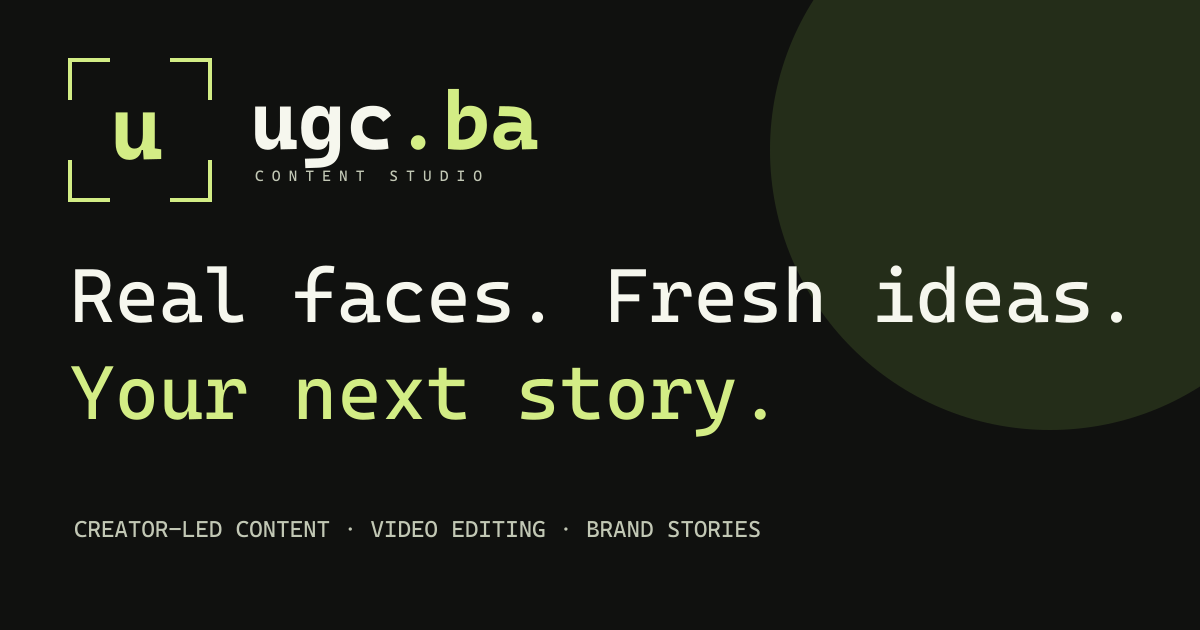
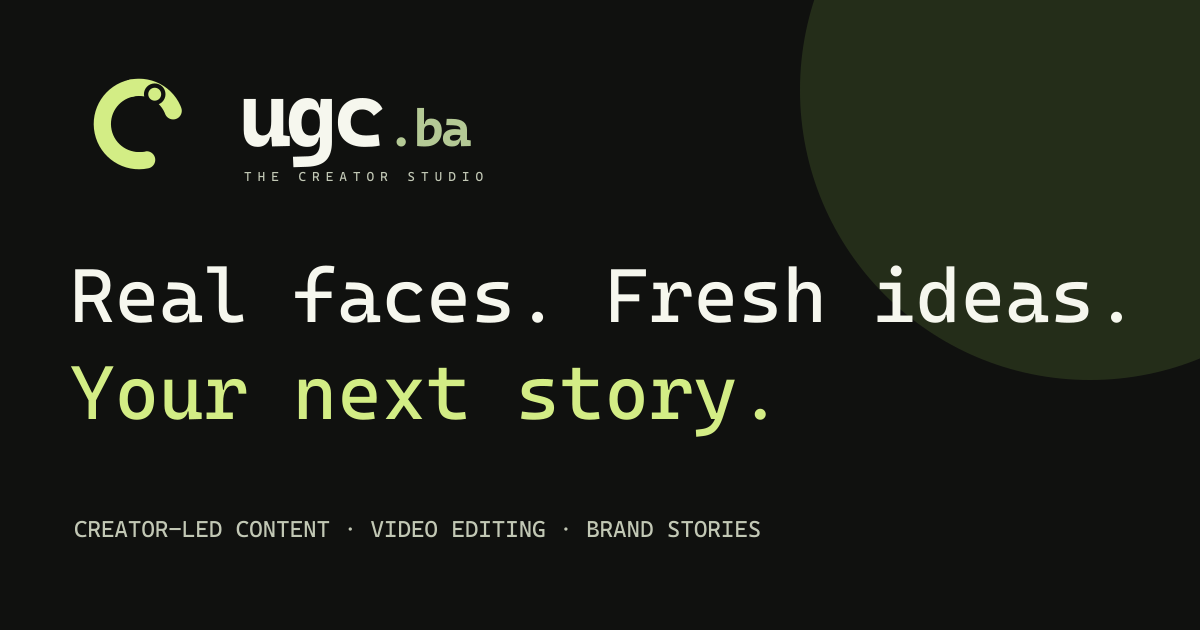
Refine studio identity and enable isolated ugc.gordon.ba mirror

diff --git a/app/components/ContactForm.tsx b/app/components/ContactForm.tsx
@@ -4,7 +4,7 @@ import {ArrowUpRight,Check,LoaderCircle} from 'lucide-react';
 type Talent={id:string;name:string};
 export default function ContactForm({talent=[],packageName='',compact=false,onDone}:{talent?:Talent[];packageName?:string;compact?:boolean;onDone?:()=>void}){
  const [state,setState]=useState<'idle'|'sending'|'sent'|'error'>('idle');const [error,setError]=useState('');
- async function submit(event:React.FormEvent<HTMLFormElement>){event.preventDefault();if(state==='sending')return;const form=event.currentTarget;const data=Object.fromEntries(new FormData(form));setState('sending');setError('');try{const endpoint=location.hostname==='localhost'||location.hostname==='127.0.0.1'?'https://ugc.ba/contact.php':'/contact.php';const response=await fetch(endpoint,{method:'POST',headers:{'Content-Type':'application/json'},body:JSON.stringify({...data,shortlist:talent}),signal:AbortSignal.timeout(25000)});const result=await response.json();if(!response.ok||!result.ok)throw new Error(result.error||'Your message could not be sent.');setState('sent');form.reset()}catch(err){setState('error');setError(err instanceof Error?err.message:'Please try again.')}}
+ async function submit(event:React.FormEvent<HTMLFormElement>){event.preventDefault();if(state==='sending')return;const form=event.currentTarget;const data=Object.fromEntries(new FormData(form));setState('sending');setError('');try{const endpoint=location.hostname==='localhost'||location.hostname==='127.0.0.1'?'https://ugc.gordon.ba/contact.php':'/contact.php';const response=await fetch(endpoint,{method:'POST',headers:{'Content-Type':'application/json'},body:JSON.stringify({...data,shortlist:talent}),signal:AbortSignal.timeout(25000)});const result=await response.json();if(!response.ok||!result.ok)throw new Error(result.error||'Your message could not be sent.');setState('sent');form.reset()}catch(err){setState('error');setError(err instanceof Error?err.message:'Please try again.')}}
  if(state==='sent')return <div className="success" role="status"><Check size={38}/><h3>Thanks. Your enquiry is on its way.</h3><p>We’ll reply to the email address you provided.</p><button className="button dark" onClick={()=>{setState('idle');onDone?.()}}>Done</button></div>;
  return <form onSubmit={submit} className="contact-form"><div className="form-grid"><label>Your name<input name="name" required maxLength={100} autoComplete="name"/></label><label>Email address<input name="email" type="email" required maxLength={200} autoComplete="email"/></label><label>Brand / company<input name="brand" maxLength={150} required/></label><label>Website<input name="website" type="url" maxLength={300} placeholder="https://"/></label><label>Service<select name="service" defaultValue={packageName||''} required><option value="" disabled>Choose a service</option>{['UGC production','Editing only','Monthly content','EGC production','The first take','The sweet spot','The full picture','Other enquiry'].map(x=><option key={x}>{x}</option>)}</select></label><label>Budget range<select name="budget"><option>To be discussed</option><option>Under €500</option><option>€500–€1,500</option><option>€1,500–€5,000</option><option>€5,000+</option></select></label>{!compact&&<><label>Number of videos<input type="number" name="videos" min="1" max="100" defaultValue={packageName==='The first take'?3:packageName==='The sweet spot'?5:packageName==='The full picture'?10:1}/></label><label>Desired delivery<input name="deadline" type="date"/></label><label>Content language<input name="language" value="English" readOnly/></label><label>Usage<select name="usage"><option>Organic content</option><option>Paid advertising</option><option>Paid advertising + partnership ads</option><option>To be discussed</option></select></label></>}</div>{talent.length>0&&<p className="form-selection">Selected: {talent.map(p=>p.name).join(', ')}</p>}<label>Tell us about your project<textarea name="description" required minLength={15} maxLength={5000} rows={4} placeholder="What are you creating, who is it for, and what do you need?"/></label><div className="contact-honeypot" aria-hidden="true"><label>Leave this empty<input name="companyFax" tabIndex={-1} autoComplete="off"/></label></div><label className="privacy-check"><input name="privacy" type="checkbox" required/><span>I have read the <a href="/privacy/" target="_blank" rel="noopener">privacy policy</a> and understand my details will be used to respond to this enquiry.</span></label>{state==='error'&&<p className="form-error" role="alert">{error} You can also email <a href="mailto:info@ugc.ba">info@ugc.ba</a>.</p>}<button type="submit" className="button dark submit" disabled={state==='sending'}>{state==='sending'?<><LoaderCircle className="spin" size={17}/>Sending…</>:<>Send enquiry <ArrowUpRight size={17}/></>}</button></form>
 }

diff --git a/app/globals.css b/app/globals.css
@@ -108,3 +108,4 @@ html[data-theme="dark"] .gallery-grid button>span{color:#20231e}
 @media(max-width:800px){.contact-section{grid-template-columns:1fr;gap:30px}.contact-copy>p{max-width:100%}.contact-panel{padding:20px}.service-strip{gap:20px}.service-strip h3{font-size:16px}.creator-page-intro>img{height:300px}.footer-links{gap:15px}}
 @media(max-width:560px){.brand{gap:8px}.brand-word{font-size:27px}.brand-word small{font-size:6px;letter-spacing:1.6px}.brand-symbol{width:30px;height:30px}.brand-symbol b{font-size:26px}.hero-profile .photo-label{max-width:90%;font-size:8px}.catalog-title{font-size:12px}.roster-count{display:none}.service-strip{grid-template-columns:1fr;gap:15px}.service-strip article{border-bottom:1px solid var(--line);padding-bottom:22px}.service-strip p{max-width:100%}.contact-email{font-size:19px}.contact-panel{padding:15px}.contact-section h2{font-size:40px}.shortlist-person>img{width:54px;height:70px}.shortlist-person{gap:12px}.shortlist-person strong{font-size:13px}.studio-footer>div{width:100%}.studio-footer .footer-links{gap:20px}.legal-page h1{font-size:42px}.creator-page-intro{gap:25px}.creator-page-intro>img{width:100%;height:350px}.creator-photo-grid{grid-template-columns:repeat(2,1fr);gap:12px}.creator-enquiry{margin-top:45px}.creator-page-intro h1{font-size:40px}}
 
+.brand-v2{gap:12px}.studio-emblem{width:44px;height:44px;color:#819b4e;flex-shrink:0;transform:rotate(-12deg);transition:transform .3s ease}.studio-wordmark{font:800 40px/.9 'Manrope',sans-serif;letter-spacing:-3px;display:block}.studio-domain{font-size:22px;letter-spacing:-1.4px;font-weight:500;margin-left:2px;color:#7b934c}.studio-wordmark small{display:block;font:600 6.5px/1.8 'DM Sans',sans-serif;letter-spacing:2.2px;margin:8px 0 0 2px}html[data-theme="dark"] .studio-emblem{color:var(--lime)}html[data-theme="dark"] .studio-domain{color:#b4c995}@media(hover:hover){.brand-v2:hover .studio-emblem{transform:rotate(6deg)}}@media(max-width:1100px){.studio-wordmark{font-size:34px}.studio-emblem{width:38px;height:38px}.studio-domain{font-size:19px}}@media(max-width:560px){.brand-v2{gap:8px}.studio-emblem{width:34px;height:34px}.studio-wordmark{font-size:32px}.studio-domain{font-size:18px}.studio-wordmark small{font-size:5.5px;letter-spacing:1.7px;margin-top:6px}}

diff --git a/app/components/Logo.tsx b/app/components/Logo.tsx
@@ -1,1 +1,1 @@
-export default function Logo(){return <a href="/" className="brand" aria-label="UGC.ba Studio home"><span className="brand-symbol" aria-hidden="true"><i/><i/><i/><i/><b>u</b></span><span className="brand-word">ugc<span>.ba</span><small>CONTENT STUDIO</small></span></a>}
+export default function Logo(){return <a href="/" className="brand brand-v2" aria-label="UGC.ba Studio home"><svg className="studio-emblem" viewBox="0 0 48 48" fill="none" aria-hidden="true"><path d="M24 7C14.6 7 7 14.6 7 24s7.6 17 17 17" stroke="currentColor" strokeWidth="8" strokeLinecap="round"/><path d="M24 7c9.4 0 17 7.6 17 17S33.4 41 24 41" stroke="currentColor" strokeWidth="8" strokeLinecap="round" strokeDasharray="24 30"/><path d="M16 20v7a8 8 0 0 0 16 0v-7" stroke="var(--paper)" strokeWidth="4" strokeLinecap="round"/><circle cx="34" cy="12" r="5" fill="var(--paper)"/><circle cx="34" cy="12" r="3" fill="currentColor"/></svg><span className="studio-wordmark">ugc<span className="studio-domain">.ba</span><small>THE CREATOR STUDIO</small></span></a>}

diff --git a/public/contact.php b/public/contact.php
@@ -5,7 +5,7 @@ header('Content-Type: application/json; charset=utf-8');
 header('Cache-Control: no-store');
 header('X-Content-Type-Options: nosniff');
 $origin = $_SERVER['HTTP_ORIGIN'] ?? '';
-$allowed = ['https://ugc.ba', 'https://www.ugc.ba', 'http://ugc.ba', 'http://127.0.0.1:3000', 'http://localhost:3000'];
+$allowed = ['https://ugc.ba', 'https://www.ugc.ba', 'http://ugc.ba', 'https://ugc.gordon.ba', 'http://ugc.gordon.ba', 'http://127.0.0.1:3000', 'http://localhost:3000'];
 if ($origin !== '' && !in_array($origin, $allowed, true)) { http_response_code(403); echo json_encode(['ok'=>false,'error'=>'This origin is not allowed.']); exit; }
 if ($origin !== '') { header('Access-Control-Allow-Origin: '.$origin); header('Vary: Origin'); }
 if ($_SERVER['REQUEST_METHOD'] === 'OPTIONS') { header('Access-Control-Allow-Methods: POST'); header('Access-Control-Allow-Headers: Content-Type'); http_response_code(204); exit; }
@@ -38,7 +38,9 @@ $selection=[]; if(isset($data['shortlist']) && is_array($data['shortlist'])) for
 $lines=['New UGC.ba Studio enquiry','Name: '.$name,'Email: '.$email,'Brand: '.$brand,'Website: '.$website,'Service: '.$service,'Creators: '.($selection?implode(', ',$selection):'Please suggest a match')];
 foreach(['budget','videos','deadline','language','usage'] as $key)$lines[]=ucfirst($key).': '.field($data,$key,200);
 $lines[]="\nProject:\n".$description; $lines[]="\nPrivacy notice acknowledged. Submitted: ".gmdate('c');
-$headers=['From'=>'UGC.ba Studio <info@ugc.ba>','Reply-To'=>$email,'MIME-Version'=>'1.0','Content-Type'=>'text/plain; charset=UTF-8'];
-$accepted=@mail('info@gordondm.com, info@ugc.ba','New project enquiry | UGC.ba Studio',implode("\r\n",$lines),$headers,'-finfo@ugc.ba');
+$host=strtolower(explode(':',$_SERVER['HTTP_HOST']??'ugc.ba')[0]);
+$sender=$host==='ugc.gordon.ba'?'info@gordondm.com':'info@ugc.ba';
+$headers=['From'=>'UGC.ba Studio <'.$sender.'>','Reply-To'=>$email,'MIME-Version'=>'1.0','Content-Type'=>'text/plain; charset=UTF-8'];
+$accepted=@mail('info@gordondm.com, info@ugc.ba','New project enquiry | UGC.ba Studio',implode("\r\n",$lines),$headers,'-f'.$sender);
 if(!$accepted)respond(503,['ok'=>false,'error'=>'Mail could not be accepted. Please email info@ugc.ba directly.']);
 respond(200,['ok'=>true]);
